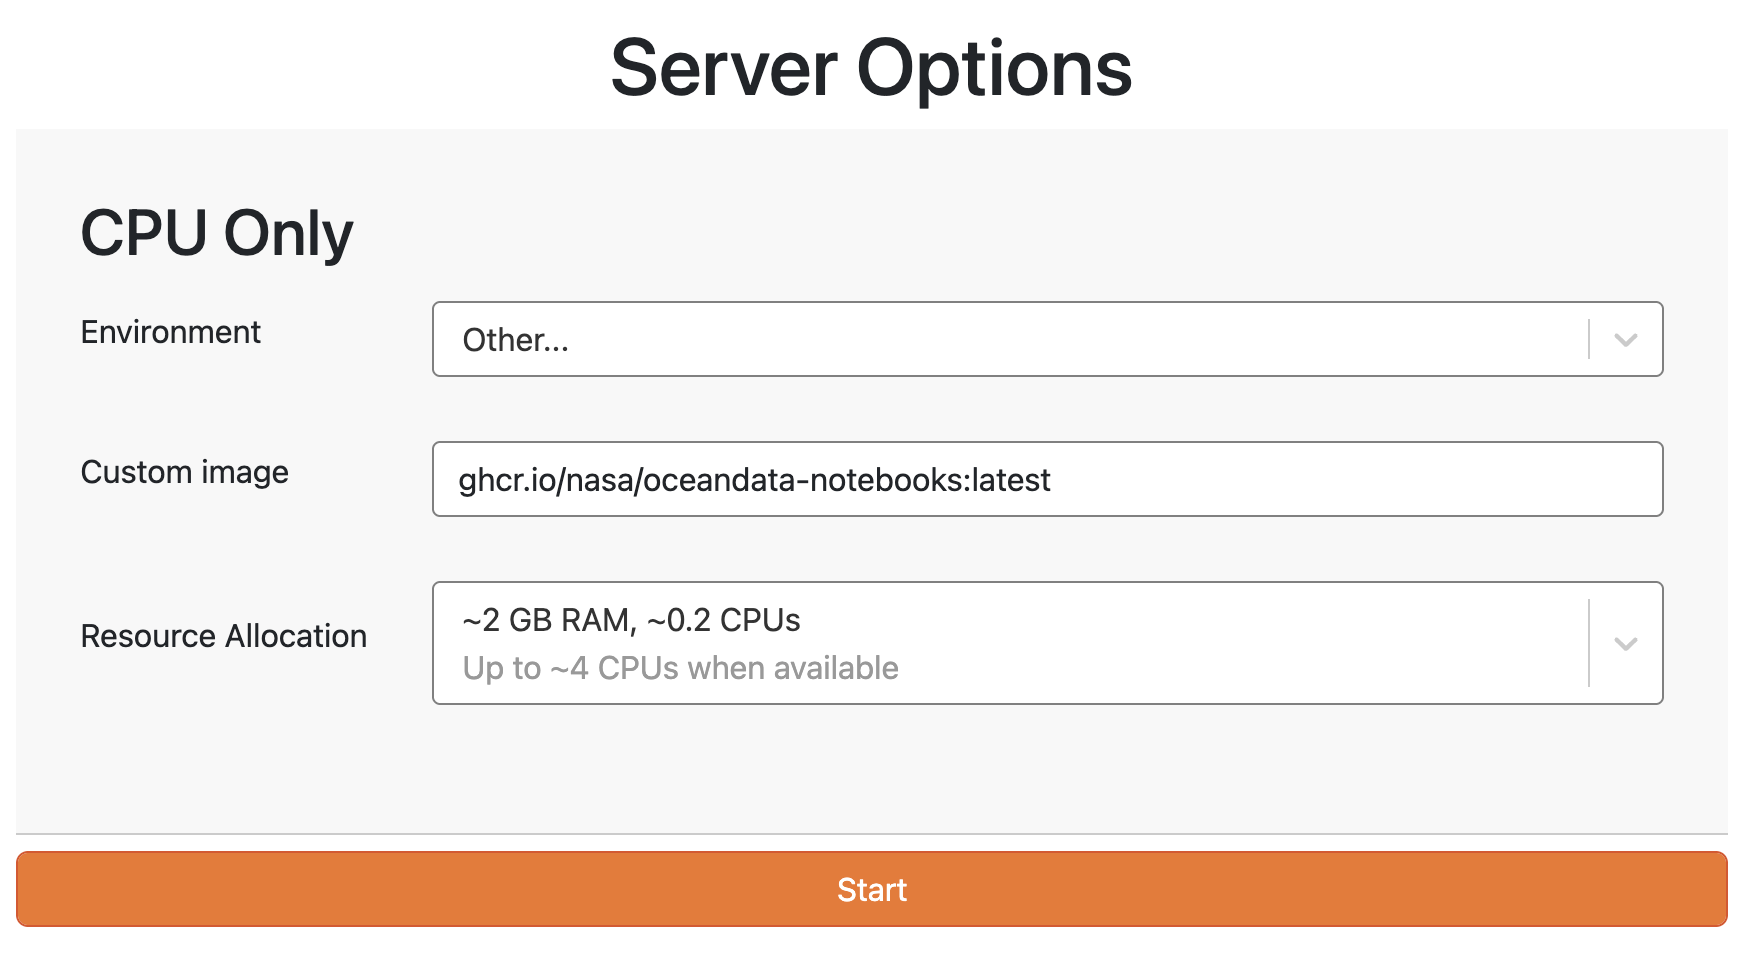
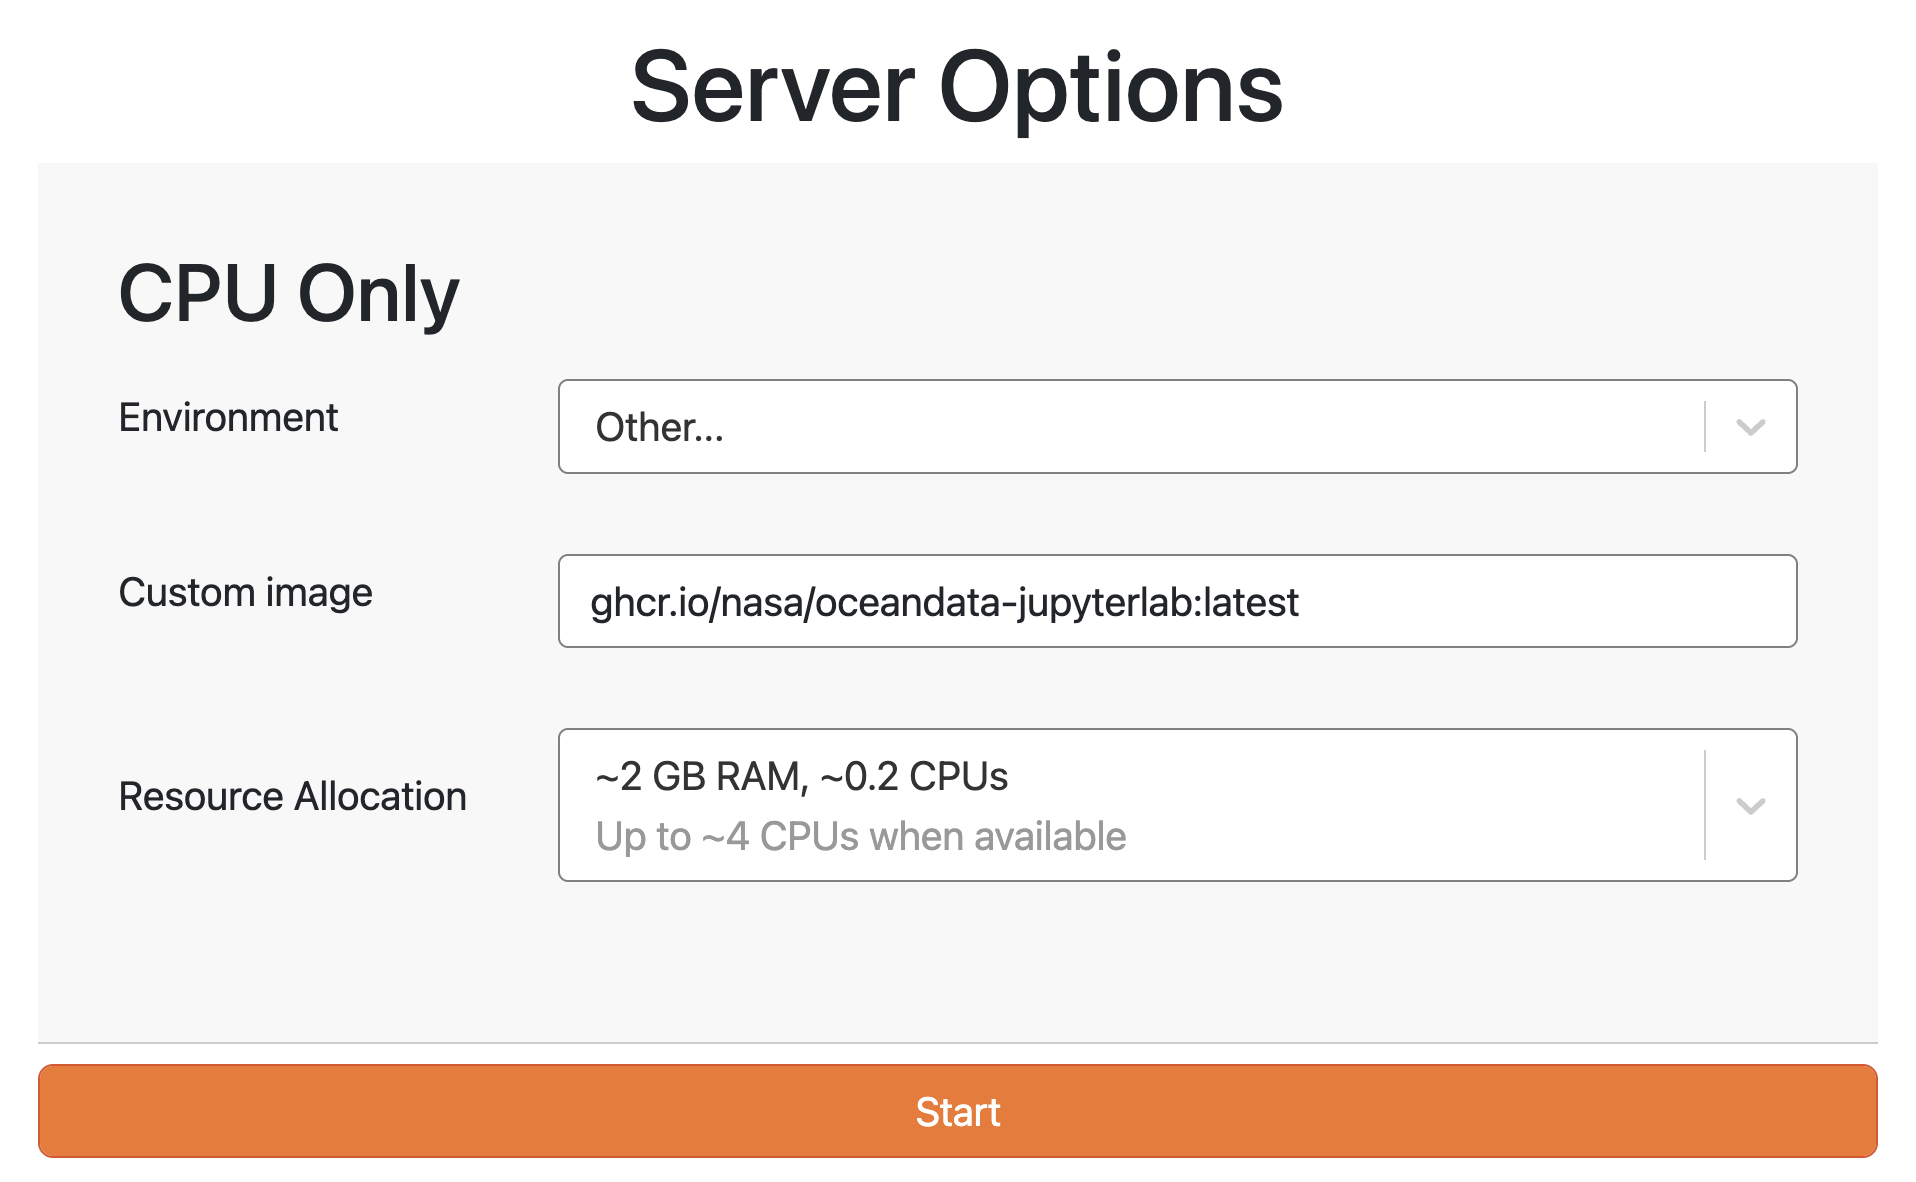
setup with oceandata-jupyterlab

diff --git a/docs/getting-started.md b/docs/getting-started.md
@@ -36,13 +36,20 @@ Here are two ways to get a Jupyter ecosystem that's ready to run them all:
   1. **On a bring-your-own-image capable JupyterHub**: run a {term}`container` built for CryoCloud
   1. **Without a JupyterHub**: run JupyterLab from a {term}`Conda` environment
 
-For the first option, login to your JupyterHub and start a server from the `ghcr.io/nasa/oceandata-notebooks:latest` image.
+### Using a Container
+
+For the first option, login to your JupyterHub and start a server from the `ghcr.io/nasa/oceandata-jupyterlab` image.
+Use the "latest" version of this image (as depicted below) to create your container for early work on a project,
+but note that this version is dynamic and will be updated without warning.
+Alternatively, to avoid any updates, use a date string formatted as "YYYYMMDD" for the version.
 
 ```{image} images/custom-image.png
 :alt: Start a server with the image
 :width: 80%
 :align: center
 ```
+
+### Using a Conda Environment
 
 For the second option, download our {download}`conda-lock.yml <../container/conda-lock.yml>` configuration file,
 which specifies exact versions of packages on {term}`Conda-Forge` and {term}`PyPI` that must be installed.
